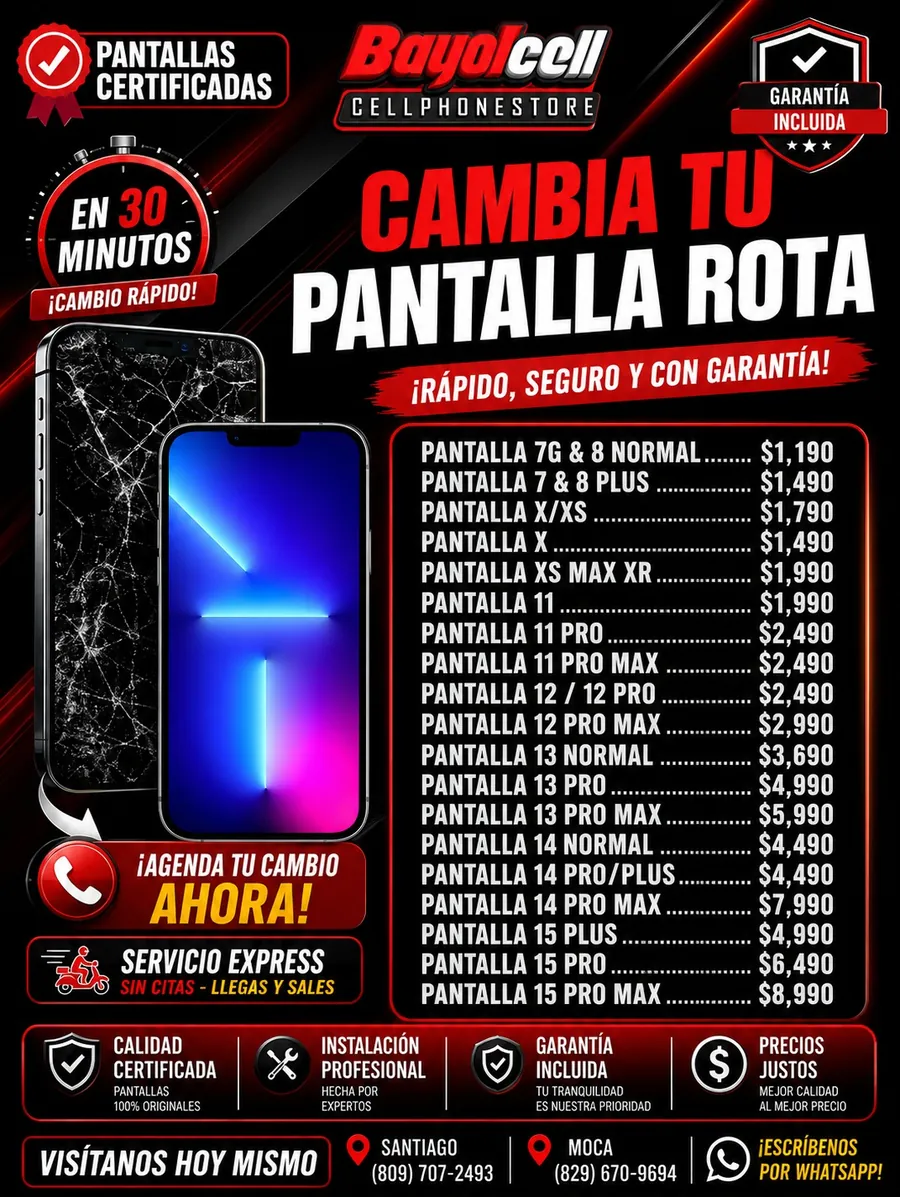
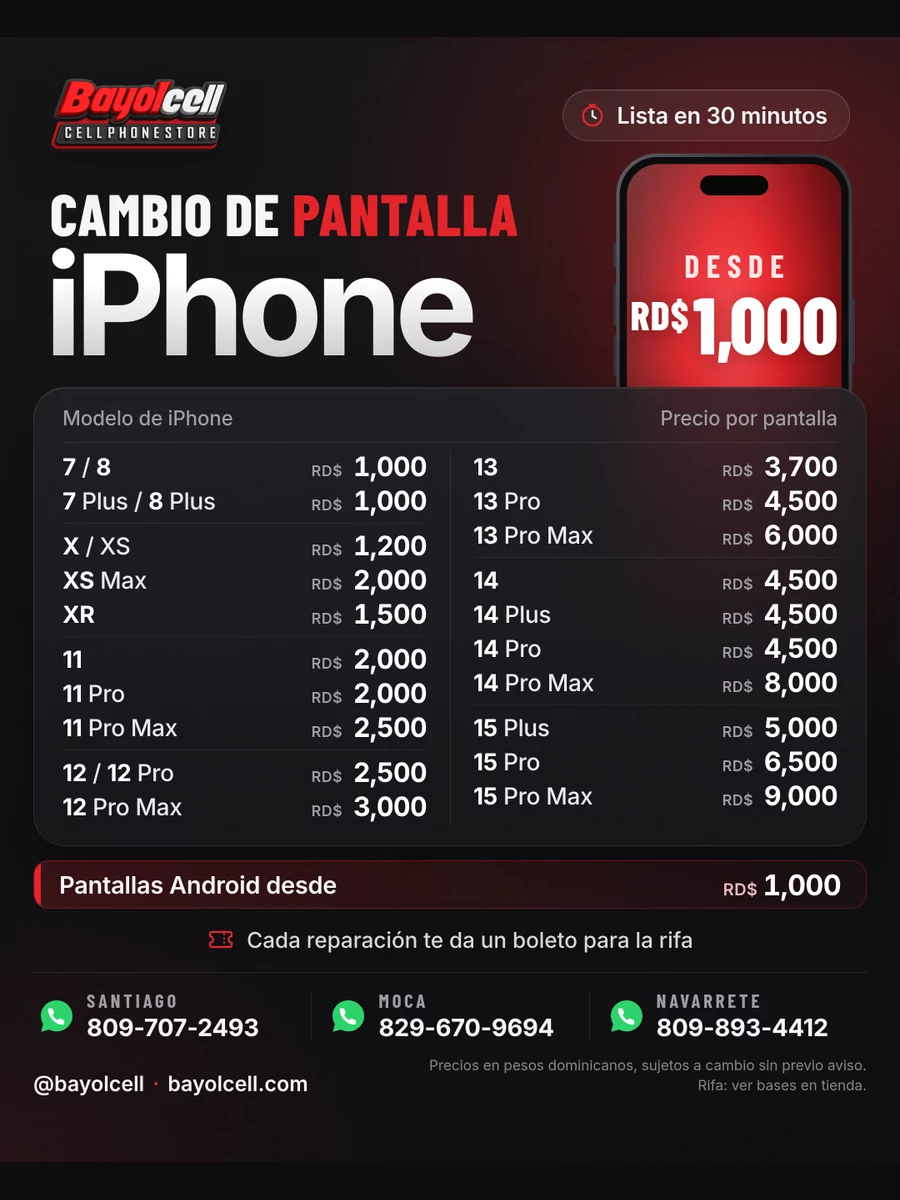
Web: flyer nuevo de pantallas iPhone (lista aprobada 09-oct-2026, desde RD$1,000) en la sección de ofertas del taller
Claude-Session: https://claude.ai/code/session_01XsqePqNsr899Mjtsv3s8DJ

diff --git a/index.html b/index.html
@@ -764,7 +764,7 @@ html.pd-abierta body{overflow:hidden}
       </div>
       <div class="ofertas aparece">
         <a class="oferta" href="https://wa.me/18495644791?text=Hola%20Bayol%20Cell%2C%20quiero%20cotizar%20el%20cambio%20de%20bater%C3%ADa" target="_blank" rel="noopener"><img src="assets/reparacion-bateria.webp" width="900" height="1200" alt="Cambio de batería de iPhone - precios" loading="lazy" decoding="async"></a>
-        <a class="oferta" href="https://wa.me/18495644791?text=Hola%20Bayol%20Cell%2C%20quiero%20cotizar%20el%20cambio%20de%20pantalla" target="_blank" rel="noopener"><img src="assets/reparacion-pantalla.webp" width="900" height="1200" alt="Cambia tu pantalla rota - precios" loading="lazy" decoding="async"></a>
+        <a class="oferta" href="https://wa.me/18495644791?text=Hola%20Bayol%20Cell%2C%20quiero%20cotizar%20el%20cambio%20de%20pantalla" target="_blank" rel="noopener"><img src="assets/reparacion-pantalla.webp?v=20261009" width="900" height="1200" alt="Cambio de pantalla iPhone desde RD$1,000 - precios" loading="lazy" decoding="async"></a>
         <a class="oferta" href="https://wa.me/18495644791?text=Hola%20Bayol%20Cell%2C%20quiero%20cotizar%20el%20cambio%20del%20cristal%20de%20la%20pantalla" target="_blank" rel="noopener"><img src="assets/reparacion-cristal-frontal.webp" width="900" height="1200" alt="Cambia el cristal de la pantalla - precios" loading="lazy" decoding="async"></a>
         <a class="oferta" href="https://wa.me/18495644791?text=Hola%20Bayol%20Cell%2C%20quiero%20cotizar%20el%20cambio%20del%20cristal%20trasero" target="_blank" rel="noopener"><img src="assets/reparacion-cristal-trasero.webp" width="900" height="1200" alt="Cambia el cristal trasero - precios" loading="lazy" decoding="async"></a>
       </div>
